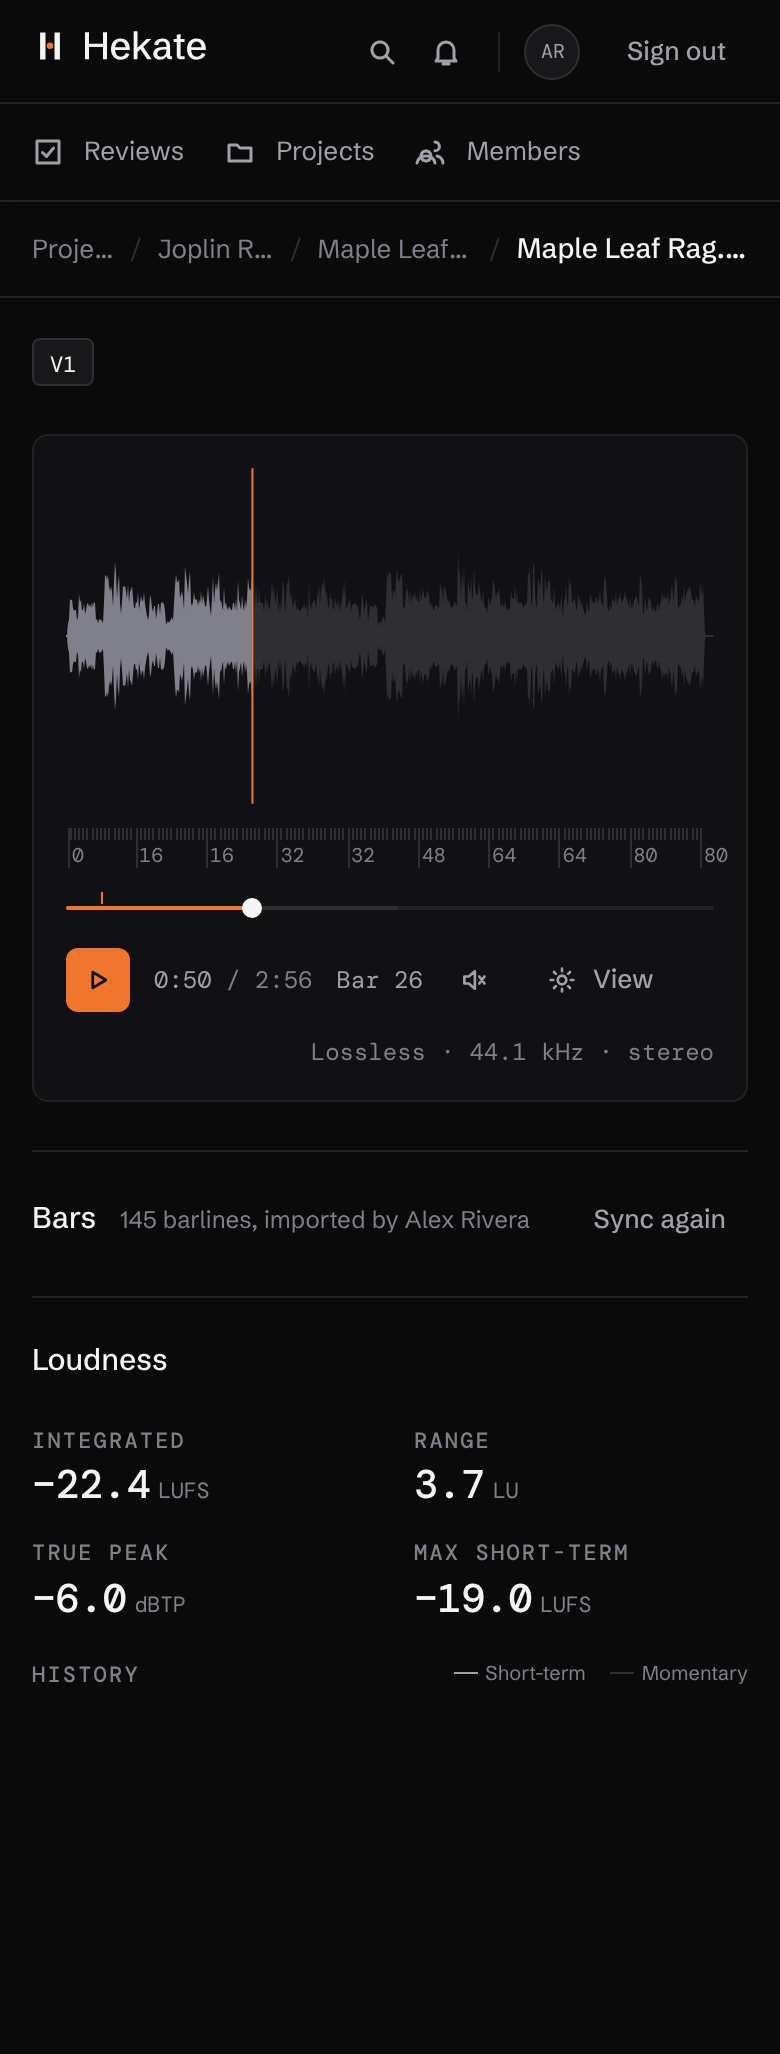
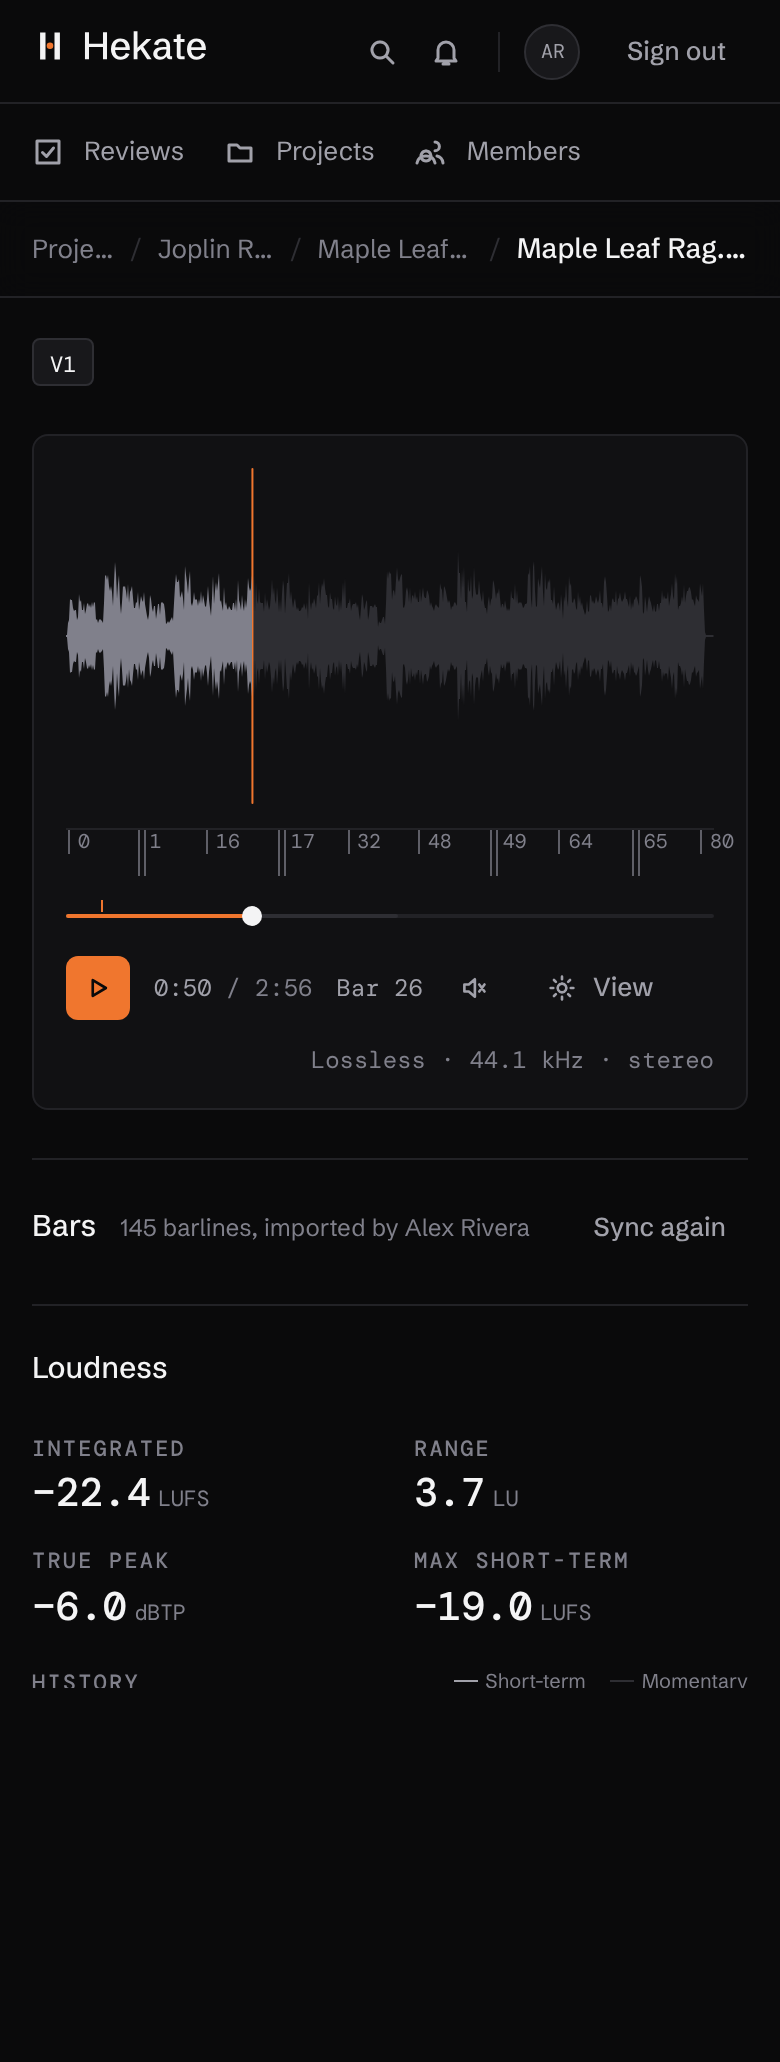
fix(web): a bar ruler that reads like a score
Numbers sit beside their own barlines and never touch, minor ticks run
along the bottom only while there is room, and a repeat shows as a
double line, numbered where the music goes back.

Claude-Session: https://claude.ai/code/session_01NFVnDKxWxdqH1wjHhzokRU

diff --git a/apps/web/src/components/bars.tsx b/apps/web/src/components/bars.tsx
@@ -6,6 +6,7 @@ import {
   parseBarLabels,
   parseForm,
   pointsFromTaps,
+  repeatsAt,
   rulerBars,
 } from "@hekate/shared";
 import { useEffect, useId, useRef, useState } from "react";
@@ -41,30 +42,47 @@ export function BarRuler({
   if (duration <= 0) return null;
   const share = (t: number) => `${Math.min(100, (t / duration) * 100)}%`;
   const numbered = new Set(rulerBars(map, duration, width));
+  const repeats = new Set(repeatsAt(map));
+  // Every barline gets a small tick along the bottom only while they stay apart.
+  const minor = width / Math.max(1, map.points.length) >= 5;
   return (
-    <nav ref={ruler} className="relative h-5" aria-label="Bars">
-      {map.points.map(([t, bar], i) => (
-        <div
-          // Barlines repeat their numbers in a repeat: the index keeps them apart.
-          // biome-ignore lint/suspicious/noArrayIndexKey: barlines are in heard order and never reorder.
-          key={i}
-          className="absolute top-0"
-          style={{ left: share(t) }}
-        >
-          <div aria-hidden className={cn("w-px bg-edge", numbered.has(i) ? "h-5" : "h-1.5")} />
-          {numbered.has(i) && (
-            // A 28 px target around the small number, so it can be hit on a phone.
-            <button
-              type="button"
-              onClick={() => onSeek(t)}
-              aria-label={`Play from bar ${bar}`}
-              className="tabular absolute -top-1 -left-2.5 flex h-7 min-w-7 cursor-pointer items-start justify-start rounded-chip border-0 bg-transparent px-3 pt-3 font-mono text-[10px] leading-3 text-ink-3 outline-none hover:text-ink focus-visible:ring-1 focus-visible:ring-signal"
-            >
-              {bar}
-            </button>
-          )}
-        </div>
-      ))}
+    <nav ref={ruler} className="relative h-6 border-t border-hairline" aria-label="Bars">
+      {map.points.map(([t, bar], i) => {
+        const isNumbered = numbered.has(i);
+        if (!isNumbered && !repeats.has(i) && !minor) return null;
+        return (
+          <div
+            // Barlines repeat their numbers in a repeat: the index keeps them apart.
+            // biome-ignore lint/suspicious/noArrayIndexKey: barlines are in heard order and never reorder.
+            key={i}
+            className="absolute inset-y-0"
+            style={{ left: share(t) }}
+          >
+            {repeats.has(i) ? (
+              // Where the music goes back: a double line, as a repeat is printed.
+              <div aria-hidden className="absolute inset-y-0 -left-px flex gap-[2px]">
+                <span className="w-px bg-ink-3/70" />
+                <span className="w-px bg-ink-3/70" />
+              </div>
+            ) : isNumbered ? (
+              <div aria-hidden className="absolute top-0 h-3 w-px bg-ink-3/70" />
+            ) : (
+              <div aria-hidden className="absolute bottom-0 h-1 w-px bg-edge" />
+            )}
+            {isNumbered && (
+              // The number sits beside its own barline, in a 28 px target for a finger.
+              <button
+                type="button"
+                onClick={() => onSeek(t)}
+                aria-label={`Play from bar ${bar}`}
+                className="tabular absolute -top-1 -left-1 flex h-7 min-w-7 cursor-pointer items-start rounded-chip border-0 bg-transparent pt-1 pr-1 pl-[9px] font-mono text-[10px] leading-3 text-ink-3 outline-none hover:text-ink focus-visible:ring-1 focus-visible:ring-signal"
+              >
+                {bar}
+              </button>
+            )}
+          </div>
+        );
+      })}
     </nav>
   );
 }

diff --git a/packages/shared/src/bars.ts b/packages/shared/src/bars.ts
@@ -149,17 +149,36 @@ export function parseBarLabels(text: string): BarMap["points"] | null {
   return unique.length > 0 ? unique : null;
 }
 
+/** Barlines where the music goes back: a repeat, or a da capo. */
+export const repeatsAt = (map: BarMap) =>
+  map.points.flatMap(([, bar], i) => (i > 0 && bar <= (map.points[i - 1]?.[1] ?? 0) ? [i] : []));
+
 /**
- * Which barlines to number on a ruler `width` pixels wide over `duration` seconds, so
- * that numbers stay at least `gap` pixels apart: every bar, or every 2nd, 4th, 8th...
+ * Which barlines to number on a ruler `width` pixels wide over `duration` seconds. The
+ * first barline and every repeat are numbered, then every bar, or every 2nd, 4th, 8th...
+ * as space allows; whatever is chosen is kept at least `gap` pixels from the number before,
+ * measured where each barline really falls.
  */
-export function rulerBars(map: BarMap, duration: number, width: number, gap = 28): number[] {
+export function rulerBars(map: BarMap, duration: number, width: number, gap = 32): number[] {
   if (duration <= 0 || width <= 0 || map.points.length === 0) return [];
-  const typical = duration / Math.max(1, map.points.length);
-  const pixels = (typical / duration) * width;
+  const x = (i: number) => ((map.points[i]?.[0] ?? 0) / duration) * width;
+  const typical = width / Math.max(1, map.points.length);
   let every = 1;
-  while (pixels * every < gap && every < 1024) every *= 2;
-  return map.points.flatMap(([, bar], i) => (bar % every === 0 || i === 0 ? [i] : []));
+  while (typical * every < gap && every < 1024) every *= 2;
+  const repeats = new Set(repeatsAt(map));
+  const kept: number[] = [];
+  for (let i = 0; i < map.points.length; i++) {
+    const bar = map.points[i]?.[1] ?? 0;
+    if (!(i === 0 || repeats.has(i) || bar % every === 0)) continue;
+    const last = kept.at(-1);
+    if (last !== undefined && x(i) - x(last) < gap) {
+      // A repeat says more than the round number just before it: it takes the place.
+      if (repeats.has(i) && !repeats.has(last) && last !== 0) kept[kept.length - 1] = i;
+      continue;
+    }
+    kept.push(i);
+  }
+  return kept;
 }
 
 /** Taps closer together than this are one tap, bounced. */

diff --git a/packages/shared/src/bars.test.ts b/packages/shared/src/bars.test.ts
@@ -8,6 +8,7 @@ import {
   parseBarLabels,
   parseForm,
   pointsFromTaps,
+  repeatsAt,
   rulerBars,
   timeOfBar,
 } from "./bars.ts";
@@ -117,7 +118,28 @@ describe("bar maps", () => {
     // 200 bars across 400 px: 2 px a bar, so every 16th bar is numbered.
     const shown = rulerBars(long, 400, 400);
     expect(shown[0]).toBe(0);
-    expect(shown.slice(1).every((i) => (long.points[i]?.[1] ?? 1) % 16 === 0)).toBe(true);
+    expect(
+      shown
+        .slice(1)
+        .every(
+          (i) => (long.points[i]?.[1] ?? 1) % 32 === 0 || (long.points[i]?.[1] ?? 1) % 16 === 0,
+        ),
+    ).toBe(true);
+    // Never two numbers closer than the gap.
+    for (const [k, i] of shown.entries()) {
+      if (k > 0) expect(i - (shown[k - 1] ?? 0)).toBeGreaterThanOrEqual(16);
+    }
     expect(rulerBars(long, 400, 20_000)).toHaveLength(200);
+  });
+
+  it("numbers where the music goes back, and marks it", () => {
+    // 1-8, then 1-8 again, then 9-16: a bar a second, 24 s over 480 px (20 px a bar).
+    const bars = [1, 2, 3, 4, 5, 6, 7, 8, 1, 2, 3, 4, 5, 6, 7, 8, 9, 10, 11, 12, 13, 14, 15, 16];
+    const form: BarMap = { beatsPerBar: 2, points: bars.map((b, i) => [i, b] as [number, number]) };
+    expect(repeatsAt(form)).toEqual([8]);
+    const shown = rulerBars(form, 24, 480).map((i) => form.points[i]?.[1]);
+    // Every 2nd bar, 40 px apart, kept 32 px from the number before: bar 2 is too close to
+    // bar 1, and the repeat back to bar 1 takes the place of the bar 8 just before it.
+    expect(shown).toEqual([1, 4, 6, 1, 4, 6, 8, 10, 12, 14, 16]);
   });
 });
